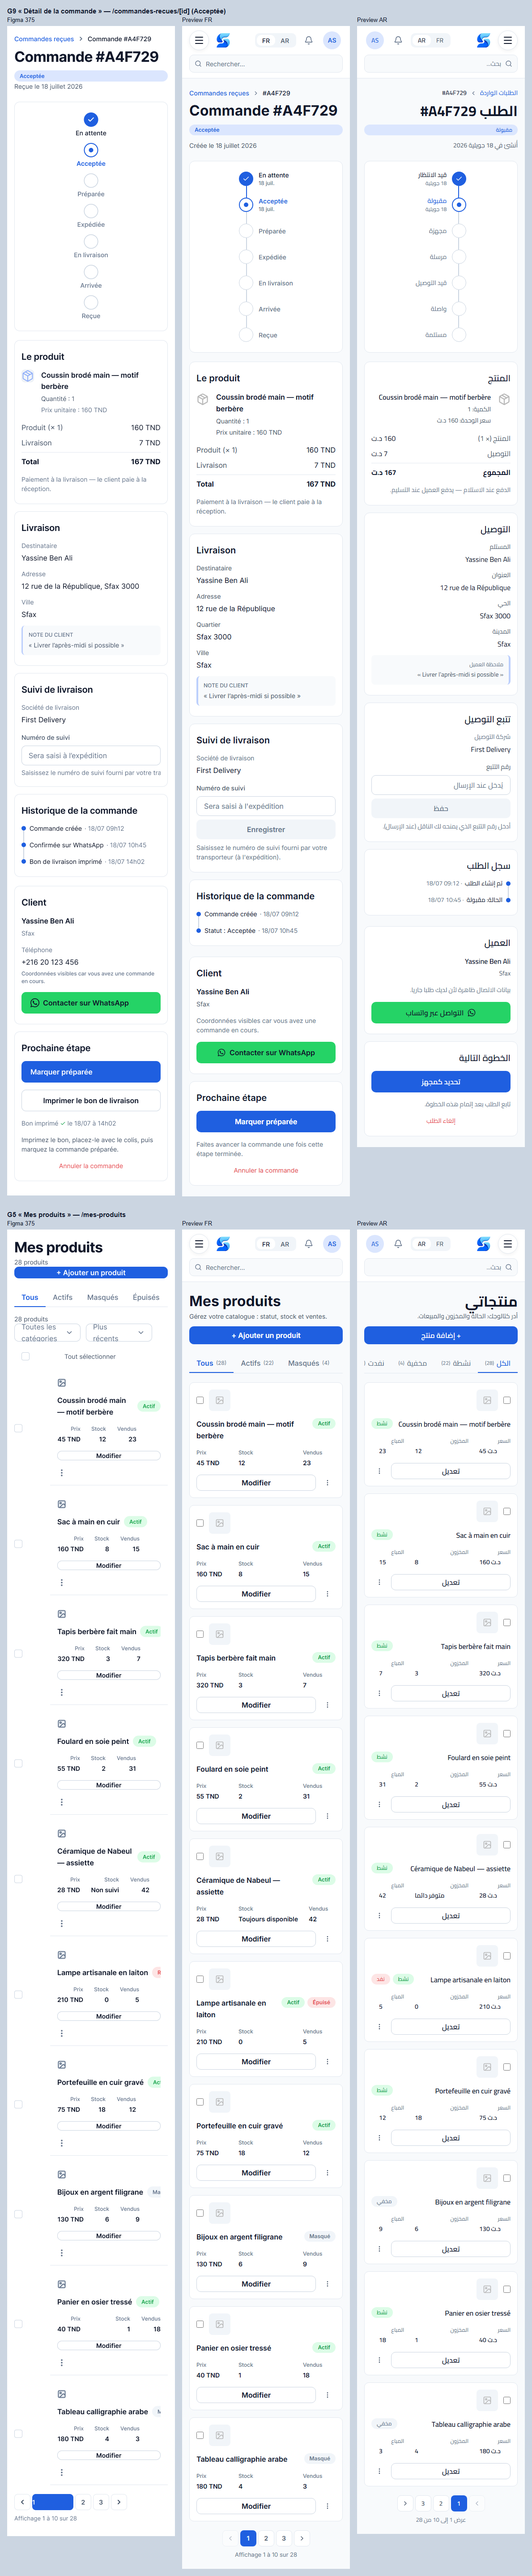
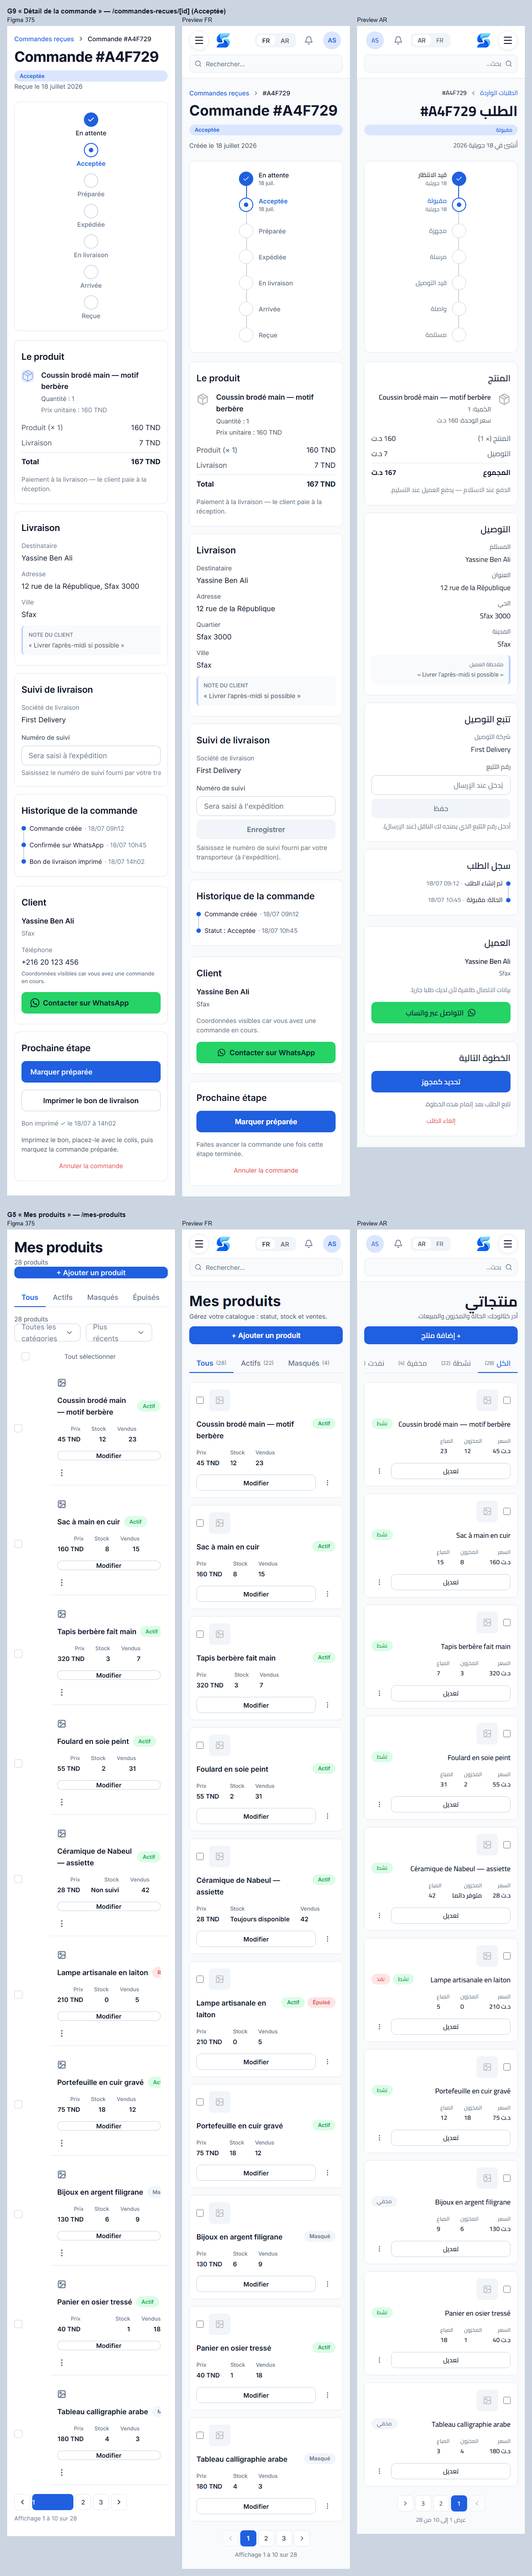
fix(seller): review — G5 « Modifier » really 14 at 375; stat columns shrink instead of overflowing
Per the PR #315 review: inside cn(), `max-lg:text-text-primary` evicted
`max-lg:text-body-sm` too, so « Modifier » was still 16 at 375. It is now a
plain class string whose desktop part is exactly what cn() produced (desktop
unchanged, 4 G5 pairs re-proven at 0 px). Below lg the Prix / Stock / Vendus
tracks are auto and shrinkable (the 70 / 120 / 56 minimums plus the 24 gap
overflowed cards under ~358 px); at 320 the only overflow left is the shared
shell's top bar. Doc and follow-up wording corrected.

diff --git a/src/app/mes-produits/_components/ProductRow.tsx b/src/app/mes-produits/_components/ProductRow.tsx
@@ -29,7 +29,7 @@ import { isOutOfStock, type SellerProductRow } from '@/lib/marche/seller-product
 // frame exists — flagged for a founder visual check, not treated as measured.
 // 375 (m375-g5-produits, docs/design/m375-g9-g5-deltas.md): the card's stroke inside pad 16, gap 16; the checkbox + thumb on a first line,
 // then the title (wrapping) with its pill beside it, the Prix / Stock / Vendus columns 24 apart with Medium labels, and « Modifier » as the
-// frame's full-width secondary button (14 Semi Bold — cn() had evicted its size). Below lg only.
+// frame's full-width secondary button (14 Semi Bold, a plain class string — cn() had evicted its size). Below lg only.
 export function ProductRow({
   product,
   lang,
@@ -95,7 +95,9 @@ export function ProductRow({
 
       {/* Non-uniform columns: "Toujours disponible" (Stock, untracked) and a 4-digit-plus-decimals
           price both overflow an equal-thirds split at any reasonable row width. */}
-      <div className="grid grid-cols-[minmax(70px,auto)_minmax(120px,auto)_minmax(56px,auto)] gap-4 max-lg:justify-start max-lg:gap-x-6 lg:shrink-0">
+      {/* Below lg the tracks hug their values, 24 apart, as the frame: the 70 / 120 / 56 minimums plus the frame's gap (294) overflowed
+          cards under ~358 px; auto tracks can shrink (the values truncate) and « Toujours disponible » still fits at 375. */}
+      <div className="grid grid-cols-[minmax(70px,auto)_minmax(120px,auto)_minmax(56px,auto)] gap-4 max-lg:grid-cols-[auto_auto_auto] max-lg:justify-start max-lg:gap-x-6 lg:shrink-0">
         <StatCol label={t('product.col_price', lang)} value={tndPrice(product.priceTnd, lang)} />
         <StatCol
           label={t('product.col_stock', lang)}
@@ -108,12 +110,11 @@ export function ProductRow({
         {/* G7 shipped — was the §8.2 Bientôt span pointing nowhere; now a real link. */}
         <Link
           href={`/mes-produits/${product.id}/modifier`}
-          className={cn(
-            // ⚑ cn() evicts `text-body-sm` next to `text-text-secondary` (the link renders 16): the 375 size rides on its own variant. Desktop
-            // keeps today's 16 (logged: docs/follow-ups/m375-g9-g5.md).
-            'inline-flex h-9 items-center rounded-lg border border-border-subtle px-3 text-body-sm font-medium text-text-secondary hover:bg-surface-subtle max-lg:flex-1 max-lg:justify-center max-lg:border-border-strong max-lg:text-body-sm max-lg:font-semibold max-lg:text-text-primary',
-            FOCUS_RING,
-          )}
+          // ⚑ A plain string, NOT cn(): tailwind-merge files `text-body-sm` in the colour group, so it evicted the size next to
+          // `text-text-secondary` (the link rendered 16) — and would evict a `max-lg:text-body-sm` next to `max-lg:text-text-primary` too.
+          // The desktop classes are exactly what cn() produced (no base size: desktop keeps today's 16, logged in
+          // docs/follow-ups/m375-g9-g5.md); below lg the frame's 14 Semi Bold full-width secondary.
+          className={`inline-flex h-9 items-center rounded-lg border border-border-subtle px-3 font-medium text-text-secondary hover:bg-surface-subtle max-lg:flex-1 max-lg:justify-center max-lg:border-border-strong max-lg:text-body-sm max-lg:font-semibold max-lg:text-text-primary ${FOCUS_RING}`}
         >
           {t('common.edit', lang)}
         </Link>
@@ -191,7 +192,7 @@ export function ProductRow({
 
 function StatCol({ label, value }: { label: string; value: string }) {
   return (
-    <div className="flex flex-col gap-0.5 max-lg:gap-1">
+    <div className="flex flex-col gap-0.5 max-lg:min-w-0 max-lg:gap-1">
       <p className="text-caption text-text-muted max-lg:font-medium max-lg:leading-[17px]">{label}</p>
       <p dir="ltr" className="truncate text-start text-body-sm font-semibold text-text-primary">
         {value}

diff --git a/docs/design/m375-g9-g5-deltas.md b/docs/design/m375-g9-g5-deltas.md
@@ -4,7 +4,7 @@ Batch 2, PR-A5.
 - **Frames:** `m375-g9-commande` (375 × 2610) and `m375-g5-produits` (375 × 2916), dump + png each. No Figma MCP read was used.
 - **Fixture:** one temporary route (`fixture-m375/[which]`) with the frames' content, deleted before the commit. Shell offset: the frame's y + 4.
 - **Desktop:** 8 pairs (G9 + G5 × 1440 / 1100 × FR / AR), stash-compared against `main`: **0 differing pixels in all 8.** It was the full set, because G9 adds wrapper elements.
-- **Overflow:** none at 375 in FR or AR. **G9 scrolled 58 px sideways before (433 wide)**; it is fixed.
+- **Overflow:** none at 375 in FR or AR. **G9 scrolled 58 px sideways before (433 wide)**; it is fixed. At 320 the only overflow left is the shared shell's top bar (16 px, every page — pre-existing, out of scope).
 
 ## Diff
 
@@ -17,7 +17,7 @@ Batch 2, PR-A5.
 | G9 Livraison | fields gap 12; the client note r8, blue/200 start bar, 12 Medium caption, text secondary, 12 under the fields | ✓ |
 | G9 Client | name 16 Semi Bold / 25; WhatsApp lg with a 20 glyph | ✓ (glyph via the button's `glyphClassName`) |
 | G5 header | H1 / 38; the add button full width, 12 under | ✓ |
-| G5 rows | card stroke inside pad 16, gap 16, list gap 16; thumb r8 above the title; the title wraps with its pill beside it; Prix / Stock / Vendus start-packed 24 apart, labels 12 Medium / 17, 4 above the value; « Modifier » a full-width secondary (border-strong, 14 Semi Bold) beside the kebab | ✓ rows 258 / 232 (frame 255 / 229). « Modifier » rendered **16 Medium** at every width (`cn()` evicted its size); fixed below lg, logged for desktop |
+| G5 rows | card stroke inside pad 16, gap 16, list gap 16; thumb r8 above the title; the title wraps with its pill beside it; Prix / Stock / Vendus start-packed 24 apart, labels 12 Medium / 17, 4 above the value; « Modifier » a full-width secondary (border-strong, 14 Semi Bold) beside the kebab | ✓ rows 258 / 232 (frame 255 / 229); the columns hug their values (auto tracks, shrinkable — the built 70 / 120 / 56 minimums plus the gap overflowed cards under ~358 px). « Modifier » rendered **16 Medium** at every width (`cn()` evicted its size); now a plain class string, 14 / 21 Semi Bold below lg; desktop keeps 16 (logged) |
 
 ## Kept (standing defaults)
 
@@ -26,7 +26,6 @@ Batch 2, PR-A5.
 - **G9 extras kept:** the tracking « Enregistrer » button and the « Quartier » row (real fields). The crumb shows the order ref (« #A4F729 »), the built text, where the frame has « Commande #A4F729 ».
 - **G5 checkbox inside the card.** The frame puts it in a 68 px column outside. G5's bulk select is built, so the box stays inside, beside the thumb.
 - **G5 frame-only controls are not built:** the « Toutes les catégories » filter, « Plus récents » sort, « 28 produits » count line and « Tout sélectionner ». They are new controls / text.
-- **G5 Stock column** keeps its 120 minimum (« Toujours disponible » fits); the frame's is 33.
 - **The frame's 26 px buttons and 20 px thumbs** are Figma hug slips, ignored.
 
 ## Questions

diff --git a/docs/follow-ups/m375-g9-g5.md b/docs/follow-ups/m375-g9-g5.md
@@ -3,11 +3,12 @@
 ## G5 « Modifier » renders at 16 on desktop (should be 14)
 
 **What** The row's « Modifier » link builds its classes with `cn()`, which merges `text-body-sm` with `text-text-secondary` and drops the size:
-it renders 16 Medium at every width. PR-A5 sets 14 Semi Bold below lg only (a `max-lg:` variant nothing competes with).
+it rendered 16 Medium at every width. PR-A5 makes it a plain class string (no merge) with 14 Semi Bold below lg; the desktop classes are
+exactly what cn() produced, so desktop still renders 16.
 
 **Why deferred** Changes desktop pixels; asked as Q4 in `docs/design/m375-g9-g5-deltas.md`. Same class of bug as F4's back link.
 
-**Where it lives** `src/app/mes-produits/_components/ProductRow.tsx` — move the text classes to a plain string.
+**Where it lives** `src/app/mes-produits/_components/ProductRow.tsx` — add the base `text-body-sm` to its (now plain) class string.
 
 **Trigger** The design pass (with F4's back link).
 
